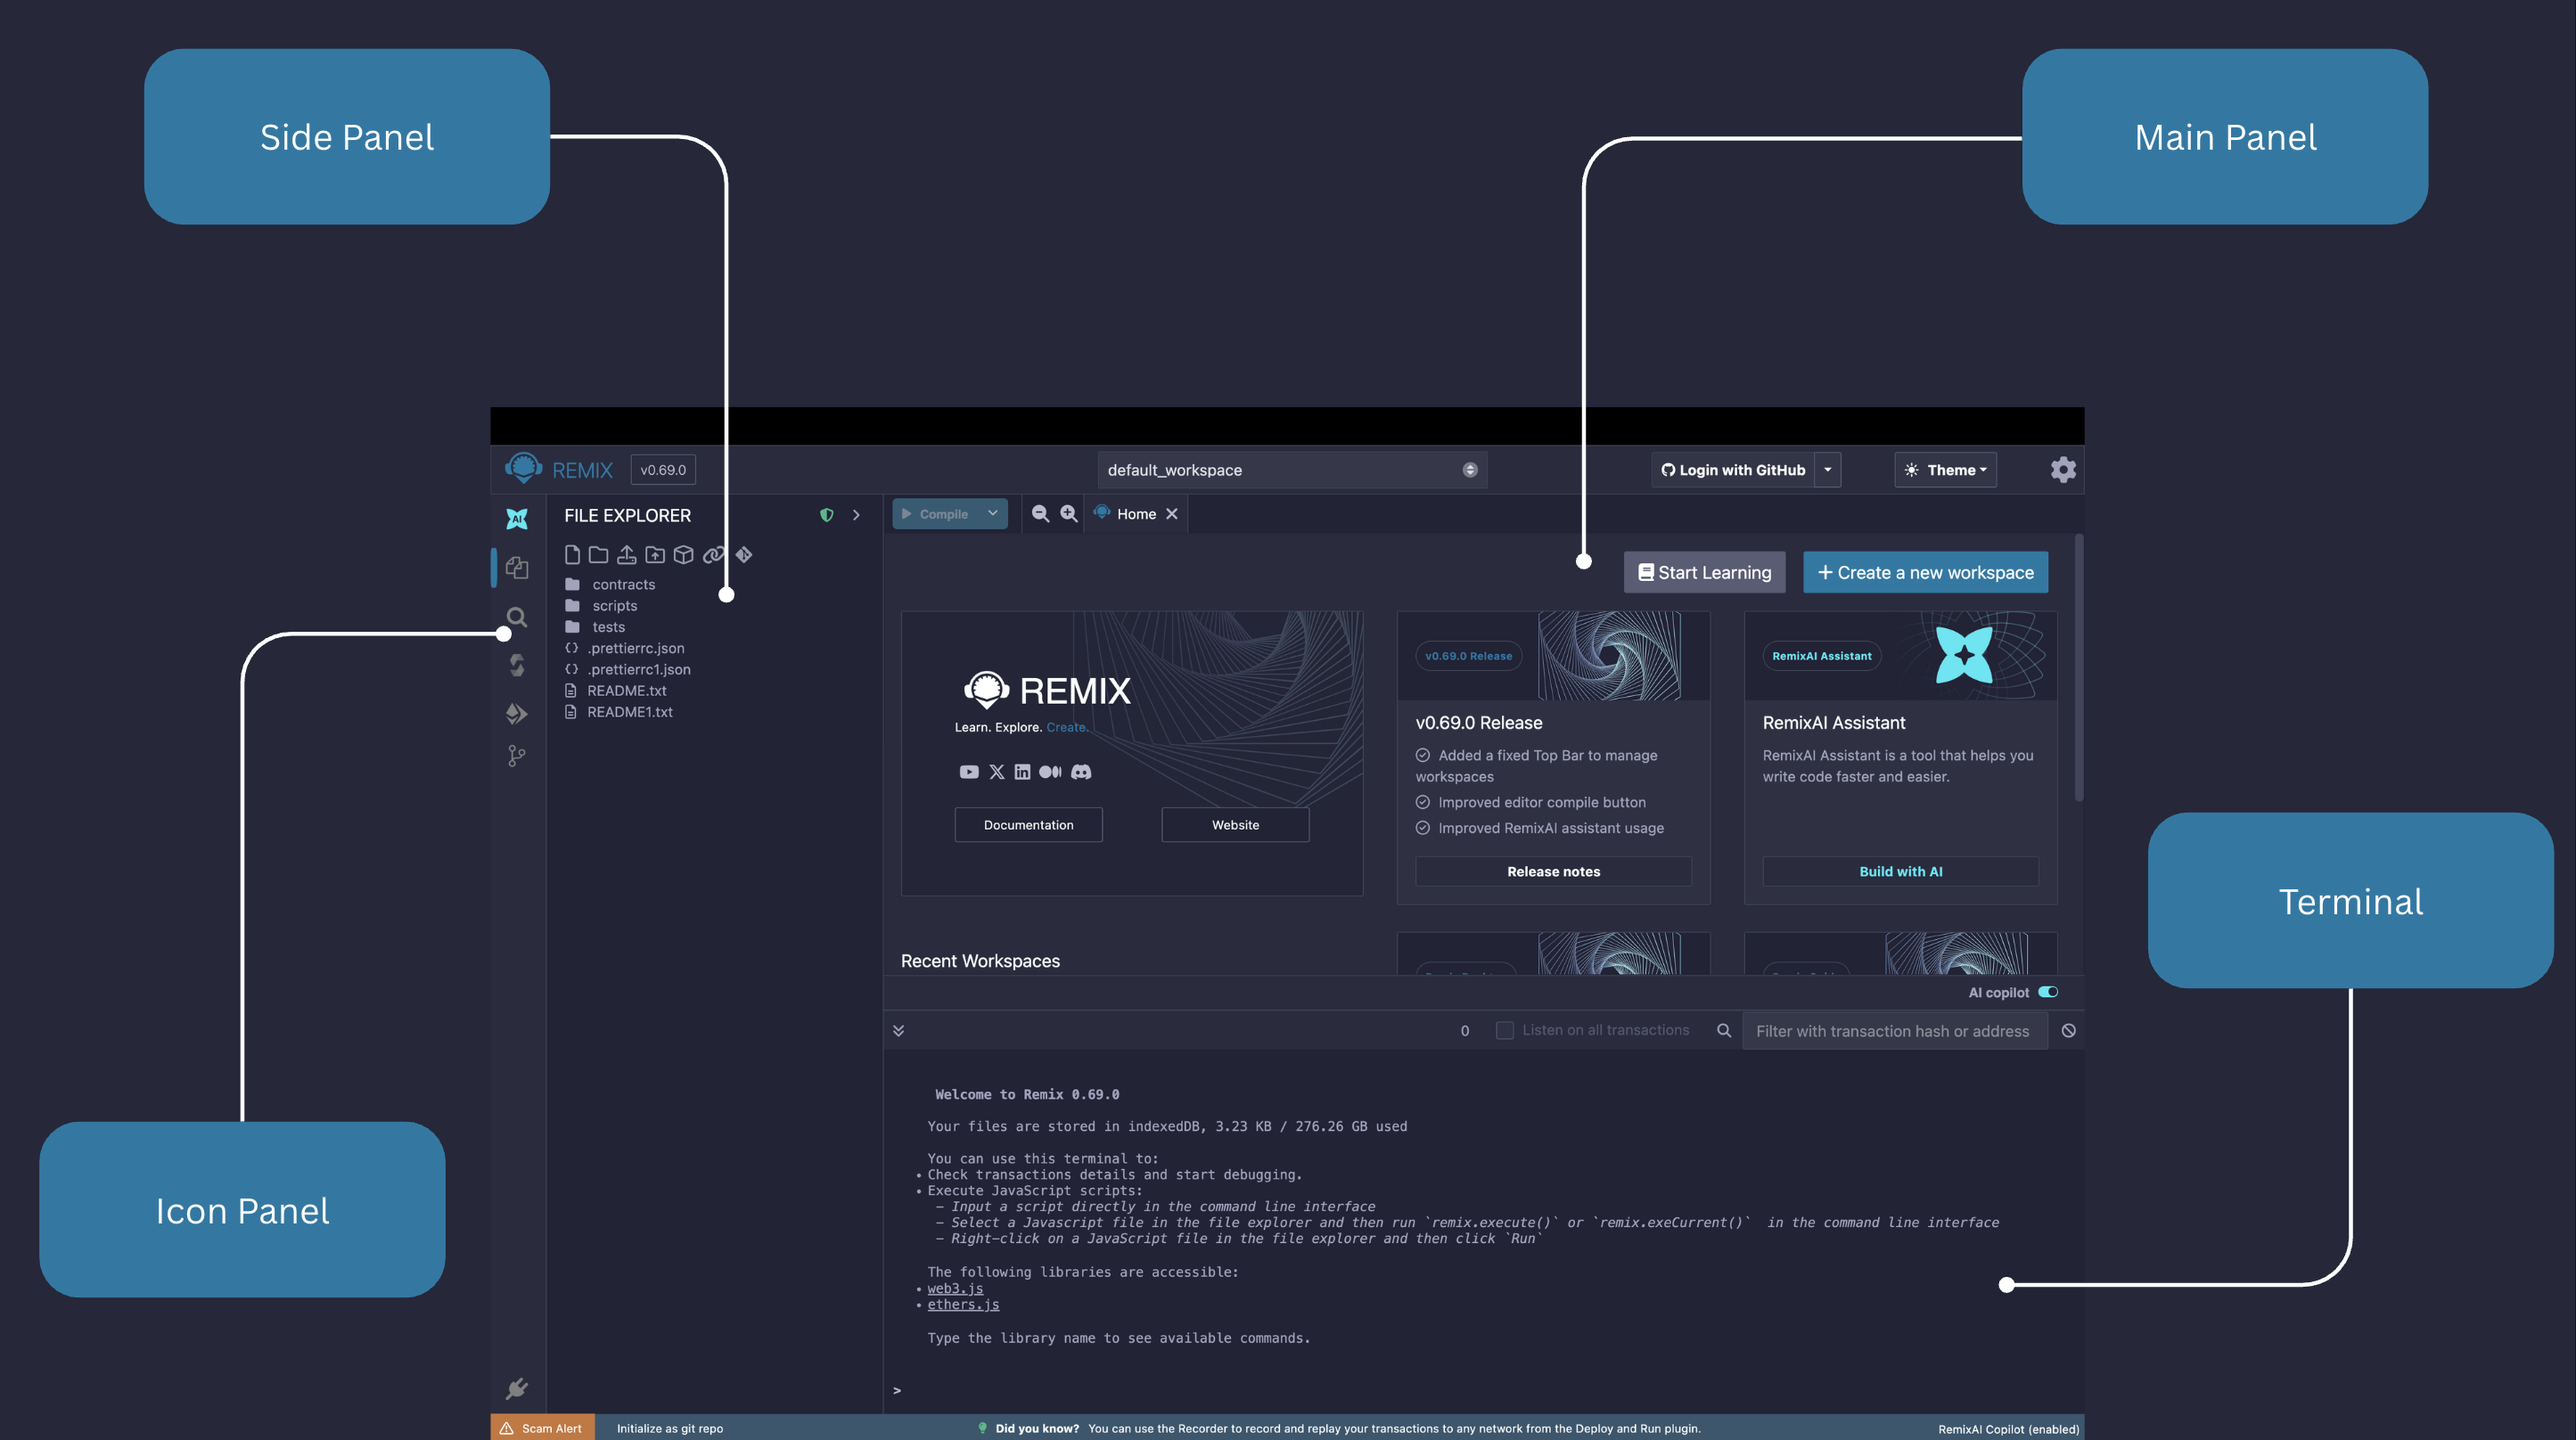
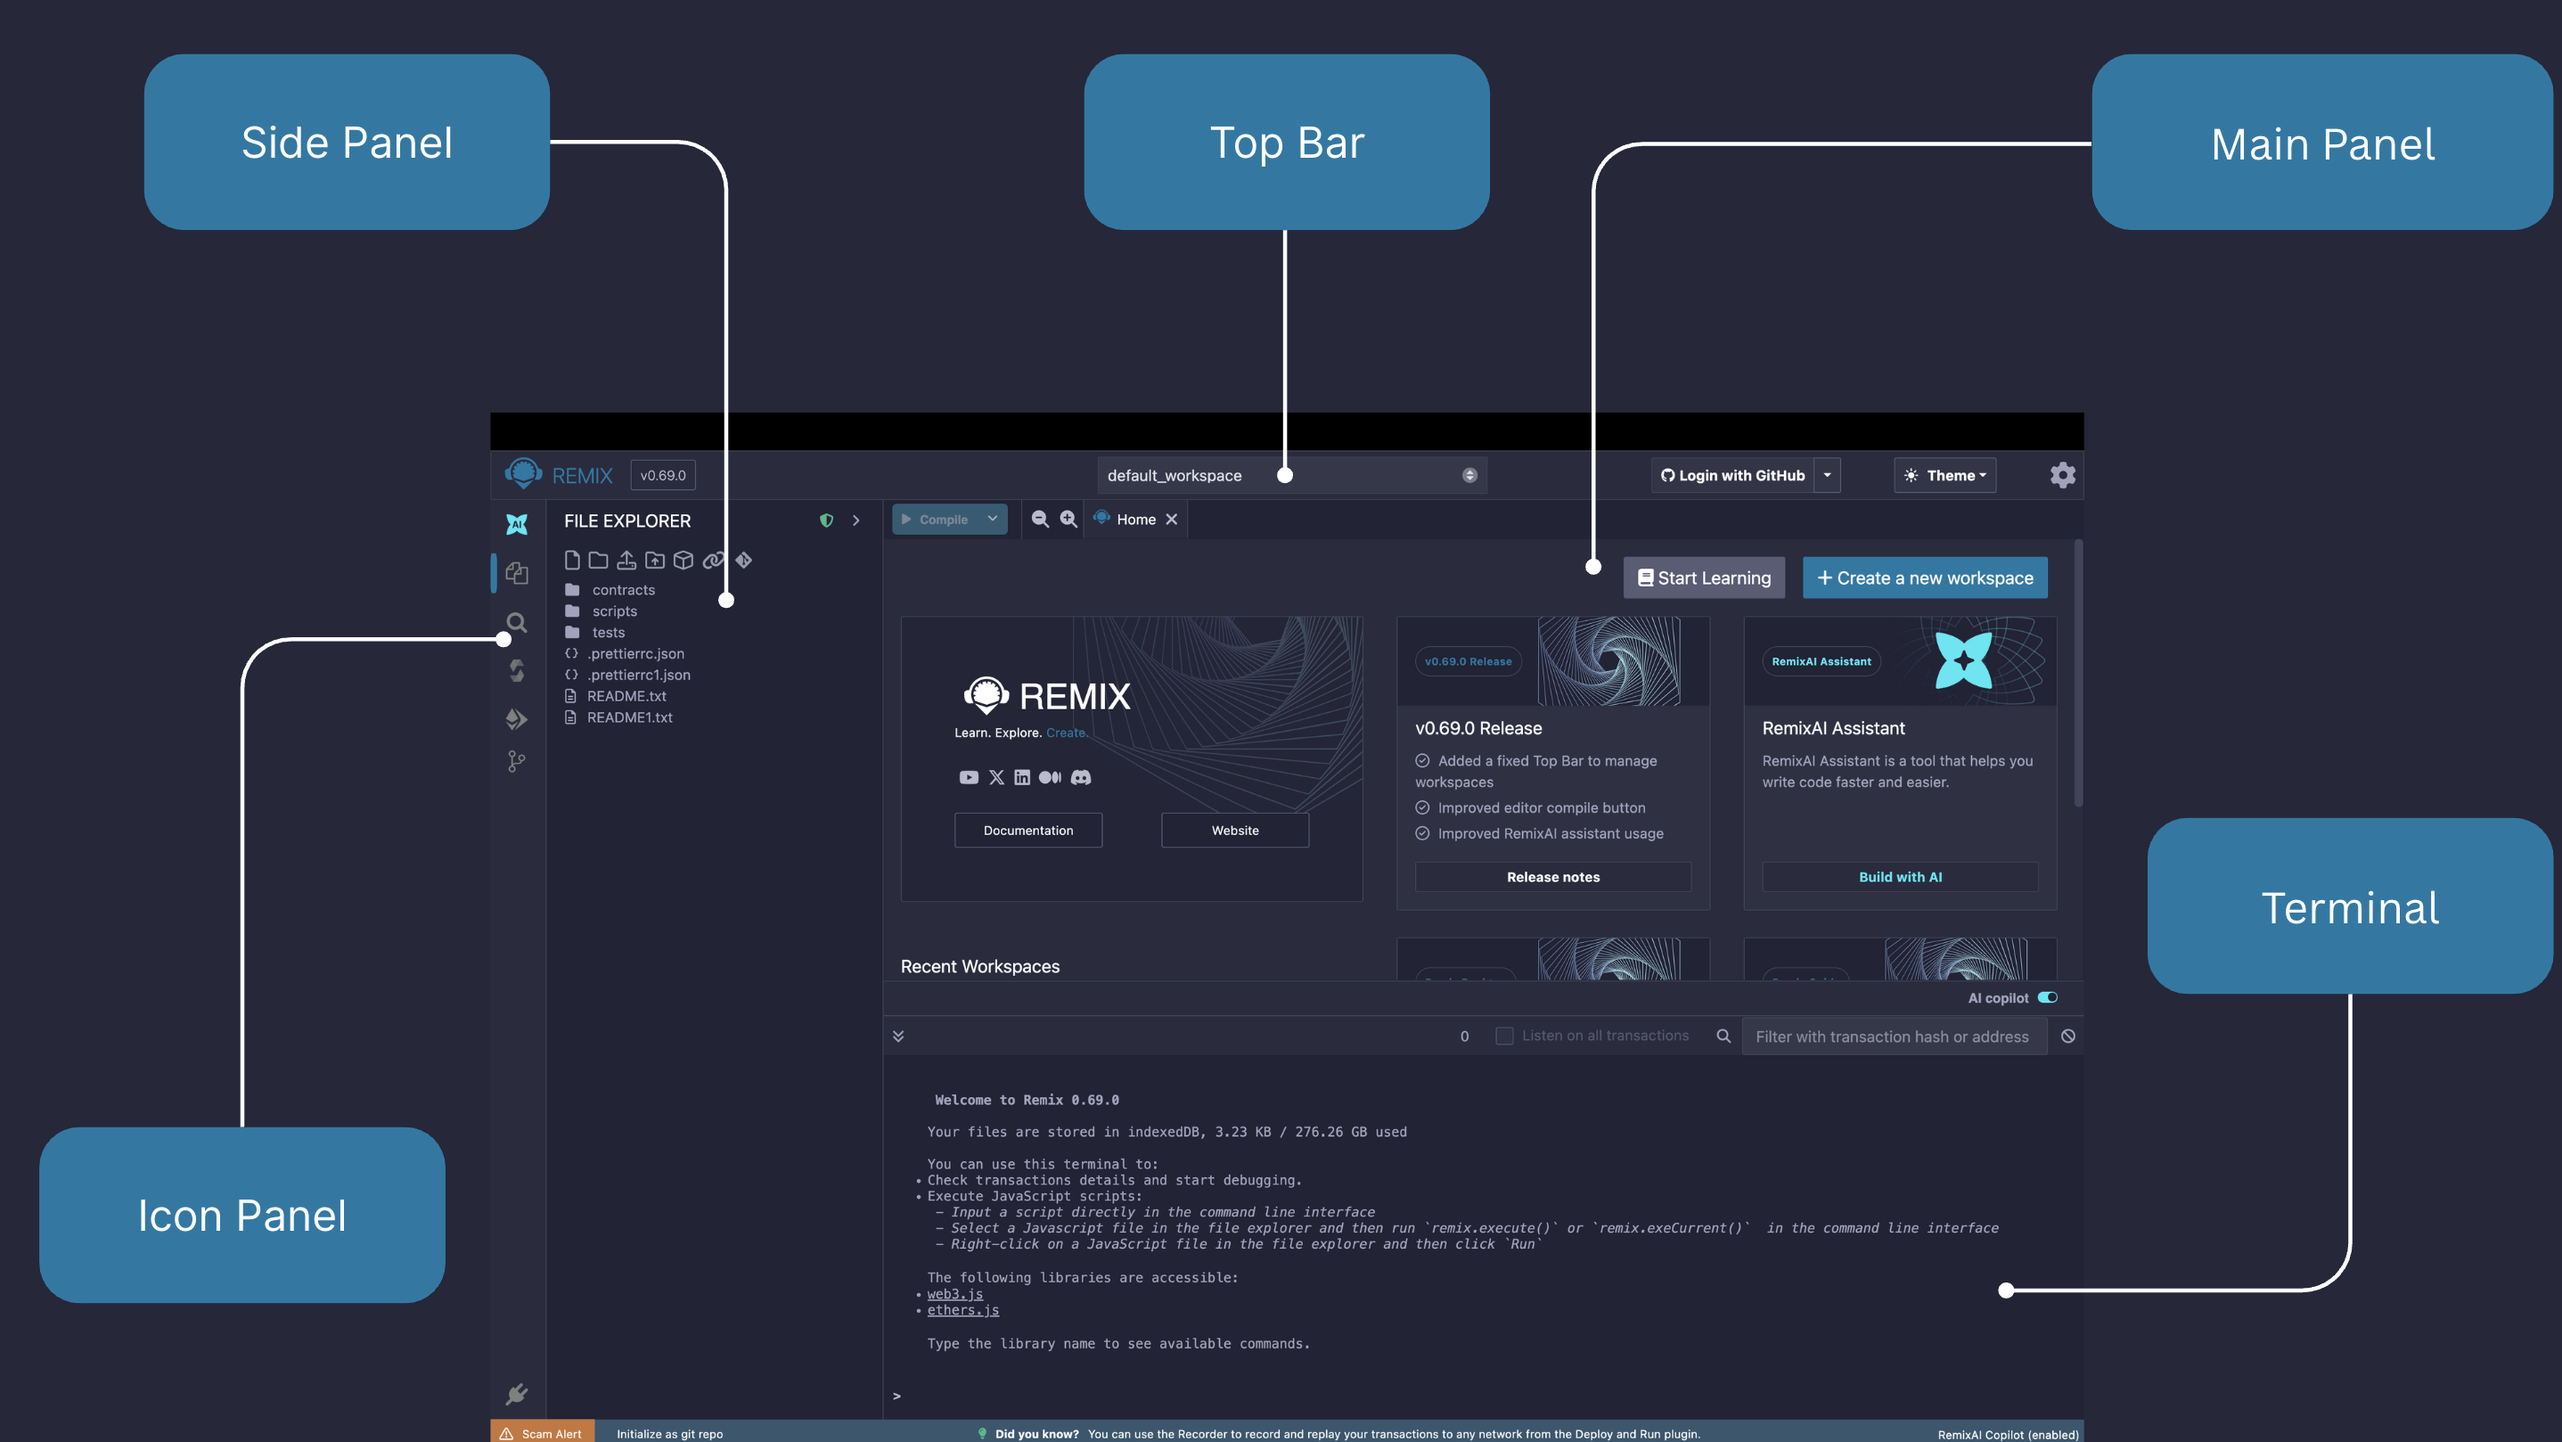
docs: include top bar

diff --git a/docs/layout.md b/docs/layout.md
@@ -1,13 +1,14 @@
 # Navigating Remix
 
-The Remix IDE comprises of three panels: the icon panel, the side panel, and the main panel; and a terminal.
+Remix IDE consists of four core components: the icon panel, side panel, main panel, and terminal. Since Remix v0.69.0, it also includes a top bar.
 
 ![Layout for Remix IDE, highlighting the terminal, the side, main, and icon panel.](images/layout/a-layout1c.png)
 
-1. Icon Panel - portal to most of Remix's core functions like the Solidity compiler, plugins, and deploy & run.
-2. Side Panel - interface for the file explorer, compiler, search page, deploy & run page, and certain plugins.
-3. Main Panel - for editing files, large format tools, and the home tab.
-4. Terminal - for viewing transaction receipts and various logs.
+- Icon Panel - portal to most of Remix's core functions like the Solidity compiler, plugins, and deploy & run.
+- Top Bar - interface for workspace selection, GitHub authentication, themes, and Remix configuration settings.
+- Side Panel - interface for the file explorer, compiler, search page, deploy & run page, and certain plugins.
+- Main Panel - for editing files, large format tools, and the home tab.
+- Terminal - for viewing transaction receipts and various logs.
 
 ## Default Tools
 
